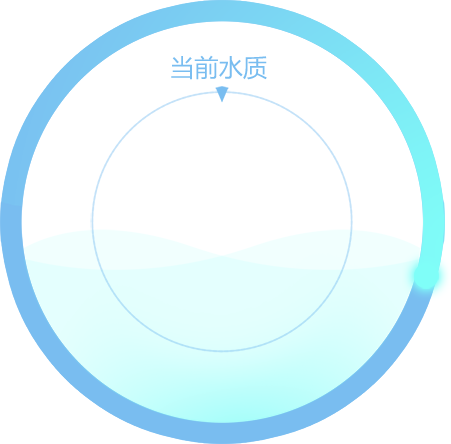
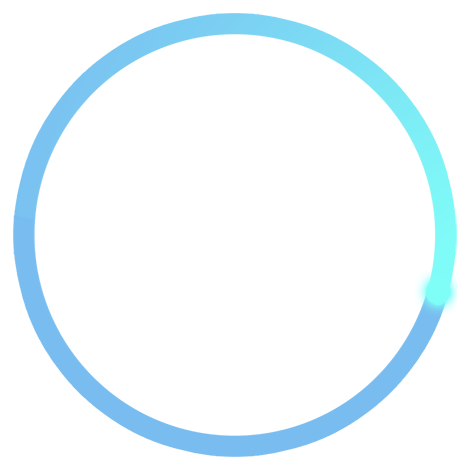
首页旋转动画，页面切换渐变效果

diff --git a/app/public/css/home.css b/app/public/css/home.css
@@ -23,9 +23,9 @@
     display: -webkit-box;
     display: -webkit-flex;
     display: flex;
-    -moz-justify-content: center;
-    -webkit-justify-content: center;
-    justify-content: center;
+    -moz-justify-content: space-between;
+    -webkit-justify-content: space-between;
+    justify-content: space-between;
     -webkit-box-align: center;
     -webkit-align-items: center;
     align-items: center;
@@ -105,17 +105,29 @@
     flex-direction: column;
     flex-grow: 1;
     overflow: scroll;
-    padding-top: 20px;
-    background: #5596d6
+    
 }
 .headContent{
     text-align: center;
     padding: 10px;
     position: relative;
 }
-.headContent img{
+.headContent img.bg{
     width: 220px;
+    animation:xuanzhuan 10s infinite;
+    -webkit-animation:xuanzhuan 10s infinite;
+    animation-timing-function:linear;
+    -webkit-animation-timing-function:linear;
 }
+@keyframes xuanzhuan{
+    from {transform: rotate(0deg);}
+    to {transform: rotate(360deg);}
+}
+.headContent img.info{
+    width: 220px;
+    margin-top: -220px;
+}
+
 .headContentInfo{
     position: absolute;
     width: 100%;
@@ -158,7 +170,7 @@
     -webkit-align-items: center;
     align-items: center;
 
-    margin-bottom: 22px;
+    margin-bottom: 20px;
 }
 .headContentInfo .i3 span{
     color: #7ffef8;
@@ -294,4 +306,5 @@
 .homePage .toolBar{
     color:#FFF;
     font-size:18px;
+    padding-top: 20px;
 }

diff --git a/app/src/components/home.js b/app/src/components/home.js
@@ -32,7 +32,7 @@ let listLi = {
     marginBottom: "10px"
 };
 let listinfo = {
-    color: "#CCC",
+    color: "#666",
     fontSize: "14px",
     marginLeft: "15px"
 };
@@ -139,8 +139,13 @@ let DeviceSwiper =(props)=>{
                           className="Demo-swiper__slide"
                           key={deviceid}
                           >
-                          <div className="headContent">
-                              <img src="img/1.png"/>
+                          <div className="headContent"
+                                style={{
+                                    background:"url('img/1-1.png') no-repeat center",
+                                    backgroundSize: "220px 220px"
+                                }}
+                          >
+                              <img src="img/1.png" className="bg"/>
                               {getdata?(
                                   <div className="headContentInfo">
                                       <span className="i1">{modeltype}</span>

diff --git a/app/src/env/jpush.dev.js b/app/src/env/jpush.dev.js
@@ -46,10 +46,10 @@ export const postNotifyFromJPush = (dispatch)=>{
       //         let jsonstring = JSON.stringify(jsonobj);
       //         window.postNotification(jsonstring);
       //   }
-      //   if(e && e.keyCode===51){ // 按 3，模拟发送手机安卓键
-      //       //要做的事情
-      //       window.webBack();
-      //  }
+        if(e && e.keyCode===51){ // 按 3，模拟发送手机安卓键
+            //要做的事情
+            window.webBack();
+       }
     }
     //未点击推送消息
     window.listenInMessage=(jsonstr)=>{

diff --git a/app/src/components/register.js b/app/src/components/register.js
@@ -45,10 +45,7 @@ let renderRegisterForm = (fields)=> {
             {fields.authcode.meta.touched && fields.authcode.meta.error &&
             <Label basic color='red' pointing>{fields.authcode.meta.error}</Label>}
             <img src="img/rg2.png" className='lefticon'/>
-
-            
             <Sendauth primary action={onClickAuth} className="yanzhenBtn" />
-
         </div>
         <div className="password logininput">
             <Input placeholder='输入密码'  {...fields.password.input} type={ispasswordvisiable?"text":"password"}/>

diff --git a/app/public/css/index.css b/app/public/css/index.css
@@ -5,7 +5,7 @@
     -moz-user-select:none;
     -ms-user-select:none;
     user-select:none;
-    font-weight: 100;
+    font-weight: 300;
 }
 input, textarea{
     -webkit-user-select:text;
@@ -39,6 +39,20 @@ input, textarea{
     align-self: stretch;
     flex-grow: 1;
 }
+
+
+.pageStyle >div, .pageWamp > div{
+    opacity: 1;
+    animation:pageshow 1s;
+    -webkit-animation:pageshow 1s;
+}
+@keyframes pageshow{
+    from {opacity : .2;}
+    to {opacity : 1;}
+}
+
+
+
 .pageWamp >div{
     display: flex;
     justify-content: space-between;

diff --git a/app/src/env/root.js b/app/src/env/root.js
@@ -1,5 +1,5 @@
 if (process.env.NODE_ENV === 'production') {
     module.exports = require('./root.prod');
 } else {
-    module.exports = require('./root.dev');
+    module.exports = require('./root.prod');
 }

diff --git a/app/src/env/login.dev.js b/app/src/env/login.dev.js
@@ -1,5 +1,5 @@
 export const haveWechatApp=(fncallback)=>{
-  fncallback({code: '1',message:'仅测试'});
+  fncallback({code: '0',message:'仅测试'});
 }
 
 export const loginQQ = (fncallback)=>{

diff --git a/app/public/css/shopping.css b/app/public/css/shopping.css
@@ -6,6 +6,9 @@
     flex-direction: column;
     width: 100%
 }
+.shoppingPage .swiper-slide{
+    min-height: 160px;
+}
 .shoppingPage .weui-actionsheet_toggle{
     background: #FFF;
 }
